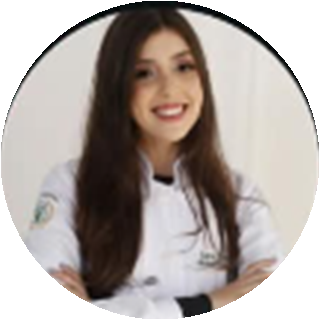
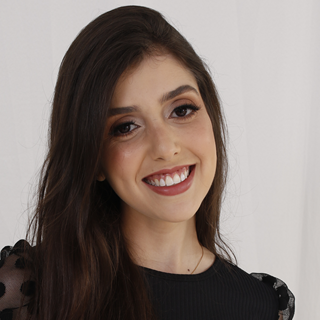
Depoimentos reais e fotos enviadas pela Lara
- Seção de depoimentos volta com os feedbacks reais (SB Carnes Nobres e
  áudios de clientes após fiscalização) e o link no menu e no rodapé
- Foto da Lara trabalhando no Sobre, retrato novo e foto nova nos serviços

diff --git a/index.html b/index.html
@@ -52,6 +52,7 @@
         <a href="#sobre">Sobre</a>
         <a href="#servicos">Serviços</a>
         <a href="#como-funciona">Como funciona</a>
+        <a href="#depoimentos">Depoimentos</a>
         <a href="#localizacao">Localização</a>
         <a href="#faq">FAQ</a>
       </nav>
@@ -64,6 +65,7 @@
       <a href="#sobre">Sobre</a>
       <a href="#servicos">Serviços</a>
       <a href="#como-funciona">Como funciona</a>
+      <a href="#depoimentos">Depoimentos</a>
       <a href="#localizacao">Localização</a>
       <a href="#faq">FAQ</a>
       <a class="btn btn--solid" href="https://wa.me/554791251221?text=Ol%C3%A1%20Lara!%20Gostaria%20de%20conversar%20sobre%20o%20meu%20estabelecimento." target="_blank" rel="noopener">
@@ -97,10 +99,9 @@
     <!-- ============ SOBRE ============ -->
     <section class="about" id="sobre" aria-labelledby="sobre-title">
       <div class="wrap about__grid">
-        <!-- AGUARDANDO: foto da Lara trabalhando (substituir assets/sobre.jpg) -->
         <figure class="about__media reveal">
-          <img src="assets/sobre.jpg" alt="Manipulador de alimentos usando luvas em bancada de inox" width="1100" height="1300" loading="lazy">
-          <img class="about__portrait" src="assets/lara.png" alt="Lara Corsini, médica veterinária, de dólmã branco" width="320" height="320" loading="lazy">
+          <img src="assets/sobre.jpg" alt="Lara Corsini de jaleco e touca medindo a temperatura de uma câmara fria com termômetro infravermelho" width="1100" height="1884" loading="lazy">
+          <img class="about__portrait" src="assets/lara.png" alt="Retrato de Lara Corsini, médica veterinária" width="320" height="320" loading="lazy">
         </figure>
         <div class="about__text">
           <h2 id="sobre-title" class="h2 reveal">Conhecer a realidade. Entender os desafios. Construir soluções.</h2>
@@ -142,7 +143,7 @@
     <section class="services" id="servicos" aria-labelledby="servicos-title">
       <div class="wrap services__grid">
         <figure class="services__media reveal">
-          <img src="assets/servicos.jpg" alt="Profissional de touca, máscara, jaleco e luvas trabalhando em uma indústria de alimentos" width="1400" height="927" loading="lazy">
+          <img src="assets/servicos.jpg" alt="Bancada de inox com prancheta de registros, termômetro, luvas e carnes em bandejas" width="1400" height="788" loading="lazy">
         </figure>
         <div class="services__content">
           <p class="eyebrow reveal">Serviços</p>
@@ -245,10 +246,40 @@
       </div>
     </section>
 
-    <!-- ============ DEPOIMENTOS ============
-         AGUARDANDO os depoimentos reais da Lara. Os exemplos anteriores foram retirados.
-         Para publicar, adicione a seção com a classe "reviews" (o CSS continua no styles.css)
-         e volte o link "Depoimentos" no menu, no menu mobile e no rodapé. -->
+    <!-- ============ DEPOIMENTOS (feedbacks reais enviados pela Lara) ============ -->
+    <section class="reviews" id="depoimentos" aria-labelledby="depoimentos-title">
+      <div class="wrap reviews__grid">
+        <div class="reviews__intro">
+          <h2 id="depoimentos-title" class="h2 reveal">Feedbacks de quem confia no meu trabalho.</h2>
+          <figure class="quote quote--feature reveal">
+            <blockquote>
+              <p>“Seu cuidado, dedicação e compromisso fazem toda a diferença no nosso dia a dia. É muito bom poder contar com uma profissional tão responsável e parceira, que está sempre atenta a tudo e contribuindo para manter a qualidade e a confiança que nossos clientes esperam.”</p>
+            </blockquote>
+            <figcaption><strong>SB Carnes Nobres</strong><span>Mensagem à responsável técnica</span></figcaption>
+          </figure>
+        </div>
+        <div class="reviews__list">
+          <figure class="quote reveal">
+            <blockquote>
+              <p>“Trabalho de excelência!”</p>
+            </blockquote>
+            <figcaption><strong>SB Carnes Nobres</strong><span>Comentário no Instagram</span></figcaption>
+          </figure>
+          <figure class="quote reveal">
+            <blockquote>
+              <p>“Elogiou bastante. Ele olhou o livro, viu que tu tá vindo toda semana… tudo certo.”</p>
+            </blockquote>
+            <figcaption><strong>Cliente, após fiscalização</strong><span>Um dos pontos elogiados foi o acompanhamento e os registros semanais</span></figcaption>
+          </figure>
+          <figure class="quote reveal">
+            <blockquote>
+              <p>“Tava tudo certinho, tudo limpinho, né? Tudo com touca, tudo com boné, tudo certinho.”</p>
+            </blockquote>
+            <figcaption><strong>Cliente, após fiscalização</strong><span>Elogios à limpeza, à organização e às boas práticas da equipe</span></figcaption>
+          </figure>
+        </div>
+      </div>
+    </section>
 
     <!-- ============ LOCALIZAÇÃO ============ -->
     <section class="location" id="localizacao" aria-labelledby="localizacao-title">
@@ -354,6 +385,7 @@
         <a href="#sobre">Sobre</a>
         <a href="#servicos">Serviços</a>
         <a href="#como-funciona">Como funciona</a>
+        <a href="#depoimentos">Depoimentos</a>
         <a href="#localizacao">Localização</a>
         <a href="#faq">FAQ</a>
       </nav>

diff --git a/styles.css b/styles.css
@@ -463,7 +463,7 @@ section.closing { padding: clamp(72px, 9vw, 120px) 0; }
 }
 
 /* Foto dos serviços (paisagem recortada em retrato) */
-.services__media img { object-position: 72% 50%; }
+.services__media img { object-position: 40% 50%; }
 
 /* Lista de documentos no card de serviço */
 .svc__items { list-style: none; padding: 0; margin: 8px 0 0; display: grid; gap: 4px; font-size: 15px; color: var(--muted); }
@@ -503,3 +503,6 @@ section.band--steps { min-height: 0; align-items: stretch; }
 @media (max-width: 600px) {
   .process { grid-template-columns: 1fr; }
 }
+
+/* Foto da Lara trabalhando: foco nela e na prancheta */
+.about__media > img:not(.about__portrait) { object-position: 50% 72%; }

diff --git a/README.md b/README.md
@@ -17,11 +17,10 @@ Sem build: HTML, CSS e JS puros. Publique a pasta em GitHub Pages, Netlify, Verc
 
 Textos de capa, sobre, serviços, "Como funciona o meu trabalho?", localização, atendimento, FAQ, CTA final e rodapé enviados pela Lara em 08/10/2026.
 
-## Pendências
+## Notas
 
-- **Depoimentos:** os exemplos foram retirados. A seção volta quando a Lara enviar os depoimentos reais (há um comentário no `index.html` no lugar da seção; o CSS `.reviews` continua no `styles.css`).
-- **Foto do Sobre:** a Lara vai enviar uma foto dela trabalhando para substituir `assets/sobre.jpg` (marcado com `AGUARDANDO` no `index.html`).
-- **Foto da Lara** (`assets/lara.png`) foi recortada do print do WhatsApp, em baixa resolução. Troque por uma foto original.
+- **Depoimentos:** feedbacks reais enviados pela Lara (mensagem e comentário da SB Carnes Nobres e dois áudios de clientes após fiscalização, transcritos sem os trechos ocultados).
+- **Fotos da Lara:** `sobre.jpg` (Lara trabalhando), `lara.png` (retrato) e `servicos.jpg` foram enviadas pela cliente.
 - **Logo:** o site usa um monograma "LC" em texto. Envie o arquivo do logo para substituir.
 - Contato: WhatsApp `+55 47 9125-1221` (`wa.me/554791251221`) e `lcsegurancadealimentos@gmail.com`.
 
